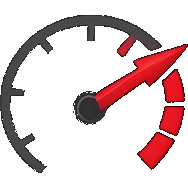
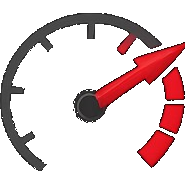
Reframe CTAs as inside access and polish ticker pro view.
- Replace Join the Squad with Get inside access across marketing and auth surfaces.

- Add ticker loading skeleton, intel panel sections, and chart marker legend.

diff --git a/src/components/ticker/TickerIntelPanel.tsx b/src/components/ticker/TickerIntelPanel.tsx
@@ -9,28 +9,36 @@ function formatDate(d: string | number) {
 export function TickerIntelPanel({ intel }: { intel: TickerIntel }) {
   if (intel.assetClass === "crypto") {
     return (
-      <Card className="mt-8">
-        <CardHeader>
-          <h2 className="text-lg font-bold">Crypto · Major exchanges only</h2>
-          <p className="text-sm text-[var(--pf-gray-500)]">
-            Listed on Coinbase/Kraken. No memecoins. Filings and earnings apply to stocks only.
-          </p>
-        </CardHeader>
-        <CardContent className="text-sm text-[var(--pf-gray-600)]">
-          <p>
-            <span className="font-medium">Venue:</span> {intel.finnhubSymbol ?? intel.symbol}
-          </p>
-          <p className="mt-2">
-            Track narrative and squad calls below. For stocks, switch to an equity ticker to see
-            news, earnings, and SEC filings.
-          </p>
-        </CardContent>
-      </Card>
+      <section className="mt-8">
+        <p className="pf-eyebrow">Market intel</p>
+        <h2 className="mt-2 text-lg font-bold tracking-tight">Crypto · exchange-listed only</h2>
+        <Card className="pf-card-elevated mt-4 border-0">
+          <CardHeader>
+            <p className="text-sm text-[var(--pf-gray-500)]">
+              Coinbase / Kraken pairs only. No memecoins. News, earnings, and SEC data are on
+              equity tickers.
+            </p>
+          </CardHeader>
+          <CardContent className="text-sm text-[var(--pf-gray-600)]">
+            <p>
+              <span className="font-medium text-[var(--pf-black)]">Venue:</span>{" "}
+              {intel.finnhubSymbol ?? intel.symbol}
+            </p>
+            <p className="mt-3 leading-relaxed">
+              Track member calls and narrative below. Open a stock ticker for filings, earnings,
+              and headline flow.
+            </p>
+          </CardContent>
+        </Card>
+      </section>
     );
   }
 
   return (
-    <div className="mt-8 grid gap-6 lg:grid-cols-2">
+    <section className="mt-8">
+      <p className="pf-eyebrow">Market intel</p>
+      <h2 className="mt-2 text-lg font-bold tracking-tight">Equity research stack</h2>
+      <div className="mt-4 grid gap-6 lg:grid-cols-2">
       <IntelCard title="News" subtitle="Last 30 days">
         {intel.news.length === 0 ? (
           <Empty>No recent headlines from Finnhub.</Empty>
@@ -140,7 +148,8 @@ export function TickerIntelPanel({ intel }: { intel: TickerIntel }) {
           </dl>
         </IntelCard>
       ) : null}
-    </div>
+      </div>
+    </section>
   );
 }
 
@@ -156,9 +165,9 @@ function IntelCard({
   className?: string;
 }) {
   return (
-    <Card className={className}>
+    <Card className={`pf-card-elevated border-0 ${className ?? ""}`}>
       <CardHeader>
-        <h2 className="text-lg font-bold">{title}</h2>
+        <h3 className="text-base font-bold tracking-tight">{title}</h3>
         <p className="text-sm text-[var(--pf-gray-500)]">{subtitle}</p>
       </CardHeader>
       <CardContent>{children}</CardContent>

diff --git a/src/app/ticker/[symbol]/page.tsx b/src/app/ticker/[symbol]/page.tsx
@@ -9,6 +9,8 @@ import { Button } from "@/components/ui/button";
 import { TickerChartClient } from "@/components/charts/TickerChartClient";
 import { TickerIntelPanel } from "@/components/ticker/TickerIntelPanel";
 import { CallThesisBlock } from "@/components/calls/CallThesisBlock";
+import { TickerChartLegend } from "@/components/ticker/TickerChartLegend";
+import { COPY } from "@/lib/copy";
 import { formatPct, formatPrice } from "@/lib/utils";
 import { getSession } from "@/lib/auth/session";
 import { toHeaderUser } from "@/lib/auth/session-user";
@@ -58,10 +60,14 @@ export default async function TickerPage({
 
         <div className="mt-8 overflow-hidden rounded-[var(--pf-radius-lg)] border border-[var(--pf-border)] bg-[var(--pf-gray-50)]">
           {intel?.candles?.length ? (
-            <TickerChartClient candles={intel.candles} markers={intel.markers ?? []} />
+            <>
+              <TickerChartClient candles={intel.candles} markers={intel.markers ?? []} />
+              <TickerChartLegend callCount={intel.markers?.length ?? 0} />
+            </>
           ) : (
-            <div className="flex h-[380px] items-center justify-center text-sm text-[var(--pf-gray-500)]">
-              Chart unavailable — check Finnhub API key and symbol.
+            <div className="flex h-[380px] flex-col items-center justify-center gap-2 px-6 text-center text-sm text-[var(--pf-gray-500)]">
+              <p className="font-medium text-[var(--pf-gray-600)]">Chart unavailable</p>
+              <p className="text-xs">Check your Finnhub API key or try another symbol.</p>
             </div>
           )}
         </div>
@@ -73,7 +79,7 @@ export default async function TickerPage({
         <SectionHeader
           eyebrow="Community"
           title={`Theses on ${symbol}`}
-          subtitle="All squad calls on this ticker, newest first."
+          subtitle="Member calls on this ticker, newest first."
         />
         <div className="mt-8 space-y-4">
           {(intel?.calls ?? []).length === 0 ? (
@@ -91,7 +97,7 @@ export default async function TickerPage({
                 </Link>
               ) : (
                 <Link href="/join" className="mt-4 inline-block">
-                  <Button variant="outline">Join to submit a call</Button>
+                  <Button variant="outline">{COPY.ctaGetAccess}</Button>
                 </Link>
               )}
             </div>

diff --git a/src/components/ticker/TickerChartLegend.tsx b/src/components/ticker/TickerChartLegend.tsx
@@ -1,0 +1,16 @@
+export function TickerChartLegend({ callCount }: { callCount: number }) {
+  if (callCount === 0) return null;
+
+  return (
+    <div className="flex flex-wrap items-center gap-4 border-t border-[var(--pf-border)] bg-white px-4 py-2.5 text-xs text-[var(--pf-gray-500)]">
+      <span className="font-semibold uppercase tracking-wide text-[var(--pf-gray-400)]">
+        Chart markers
+      </span>
+      <span className="inline-flex items-center gap-1.5">
+        <span className="h-2.5 w-2.5 rounded-full bg-[var(--pf-red)]" />
+        Member call ({callCount} on chart)
+      </span>
+      <span className="text-[var(--pf-gray-400)]">Hover markers for caller labels</span>
+    </div>
+  );
+}

diff --git a/src/components/ticker/TickerPageSkeleton.tsx b/src/components/ticker/TickerPageSkeleton.tsx
@@ -1,0 +1,16 @@
+export function TickerPageSkeleton() {
+  return (
+    <div className="animate-pulse space-y-8">
+      <div className="pf-card-elevated p-6">
+        <div className="h-4 w-24 rounded bg-[var(--pf-gray-200)]" />
+        <div className="mt-4 h-9 w-40 rounded bg-[var(--pf-gray-200)]" />
+        <div className="mt-2 h-4 w-56 rounded bg-[var(--pf-gray-100)]" />
+        <div className="mt-6 h-[380px] rounded-[var(--pf-radius-lg)] bg-[var(--pf-gray-100)]" />
+      </div>
+      <div className="grid gap-6 lg:grid-cols-2">
+        <div className="h-48 rounded-[var(--pf-radius-lg)] bg-[var(--pf-gray-100)]" />
+        <div className="h-48 rounded-[var(--pf-radius-lg)] bg-[var(--pf-gray-100)]" />
+      </div>
+    </div>
+  );
+}

diff --git a/src/app/ticker/[symbol]/loading.tsx b/src/app/ticker/[symbol]/loading.tsx
@@ -1,0 +1,15 @@
+import { SiteHeader } from "@/components/brand/SiteHeader";
+import { TickerPageSkeleton } from "@/components/ticker/TickerPageSkeleton";
+
+export default function TickerLoading() {
+  return (
+    <>
+      <SiteHeader />
+      <div className="pf-app-bg">
+        <main className="mx-auto max-w-6xl px-4 py-8">
+          <TickerPageSkeleton />
+        </main>
+      </div>
+    </>
+  );
+}

diff --git a/src/app/join/page.tsx b/src/app/join/page.tsx
@@ -8,6 +8,7 @@ import { Logo } from "@/components/brand/Logo";
 import { Button } from "@/components/ui/button";
 import { Input } from "@/components/ui/input";
 import { Card, CardContent, CardHeader } from "@/components/ui/card";
+import { COPY } from "@/lib/copy";
 
 type Step = "plan" | "account" | "done";
 
@@ -62,10 +63,10 @@ export default function JoinPage() {
       </div>
       <div className="pf-hero-mesh border-b border-[var(--pf-border)] py-10 text-center">
         <p className="pf-eyebrow">Membership</p>
-        <h1 className="pf-display mt-3 text-2xl sm:text-3xl">Join the PortFuel squad</h1>
+        <h1 className="pf-display mt-3 text-2xl sm:text-3xl">Get inside access to PortFuel</h1>
         <p className="pf-lead mx-auto mt-3 max-w-md text-sm">
-          Choose a permanent username and password. After membership is active, you&apos;ll set up
-          2FA before accessing the dashboard.
+          Member-only theses, live marks, and the full feed — not just public winners. Choose a
+          permanent username; after activation, complete 2FA to enter.
         </p>
       </div>
       <div className="mx-auto max-w-3xl px-4 py-10">
@@ -80,9 +81,10 @@ export default function JoinPage() {
           <Card className="pf-card-elevated border-0 shadow-[var(--pf-shadow-lg)]">
             <CardHeader>
               <p className="pf-eyebrow">Membership</p>
-              <h1 className="mt-2 text-2xl font-bold tracking-tight">Join the Squad</h1>
+              <h1 className="mt-2 text-2xl font-bold tracking-tight">Member access</h1>
               <p className="mt-2 text-[var(--pf-gray-600)]">
-                Premium stock call intelligence. Username is permanent — choose carefully.
+                Unlock the full thesis feed and live intel. Username is permanent — choose
+                carefully.
               </p>
             </CardHeader>
             <CardContent className="space-y-6">
@@ -165,7 +167,7 @@ export default function JoinPage() {
                 <Input
                   value={displayName}
                   onChange={(e) => setDisplayName(e.target.value.slice(0, 32))}
-                  placeholder="Your squad name"
+                  placeholder="How you appear on calls"
                 />
               </div>
               {error ? (

diff --git a/src/components/marketing/MarketingCta.tsx b/src/components/marketing/MarketingCta.tsx
@@ -1,16 +1,17 @@
 import Link from "next/link";
 import { Button } from "@/components/ui/button";
+import { COPY } from "@/lib/copy";
 
 export function MarketingCta() {
   return (
     <section className="pf-cta-band">
       <div className="mx-auto max-w-6xl px-4 py-16 text-center">
         <h2 className="text-2xl font-bold tracking-tight text-white sm:text-3xl">
-          Ready to fuel the board?
+          Ready for inside access?
         </h2>
         <p className="mx-auto mt-3 max-w-lg text-sm leading-relaxed text-white/80">
-          Join during beta for full access. Stripe membership billing ships next — early squad
-          members lock in first.
+          Get the full thesis feed, live marks, and member-only intel. Stripe billing ships next —
+          early members lock in first.
         </p>
         <div className="mt-8 flex flex-wrap items-center justify-center gap-3">
           <Link href="/join">
@@ -18,7 +19,7 @@ export function MarketingCta() {
               size="lg"
               className="bg-white text-[var(--pf-black)] hover:bg-white/90"
             >
-              Join the Squad
+              {COPY.ctaGetAccess}
             </Button>
           </Link>
           <Link href="/login">

diff --git a/src/components/marketing/MembersFeedGate.tsx b/src/components/marketing/MembersFeedGate.tsx
@@ -1,6 +1,7 @@
 import Link from "next/link";
 import { Radio, Lock } from "lucide-react";
 import { Button } from "@/components/ui/button";
+import { COPY } from "@/lib/copy";
 
 export function MembersFeedGate() {
   return (
@@ -9,19 +10,19 @@ export function MembersFeedGate() {
         <div className="grid items-center gap-10 lg:grid-cols-2">
           <div>
             <p className="text-xs font-semibold uppercase tracking-widest text-[var(--pf-red)]">
-              Members only
+              {COPY.membersOnly}
             </p>
             <h2 className="mt-3 text-2xl font-bold tracking-tight sm:text-3xl">
-              Live call feed stays inside the squad
+              The live intel stays behind the member wall
             </h2>
             <p className="mt-4 text-sm leading-relaxed text-white/70">
               Fresh theses, entry levels, and the full dashboard are for paid members. The homepage
               only showcases calls that have already hit performance thresholds — never the live
-              board.
+              board or full write-ups.
             </p>
             <div className="mt-8 flex flex-wrap gap-3">
               <Link href="/join">
-                <Button size="lg">Join the Squad</Button>
+                <Button size="lg">{COPY.ctaGetAccess}</Button>
               </Link>
               <Link href="/login">
                 <Button size="lg" variant="outline" className="border-white/30 text-white hover:bg-white/10 hover:text-white">

diff --git a/src/components/calls/PublicHighlightCard.tsx b/src/components/calls/PublicHighlightCard.tsx
@@ -5,6 +5,7 @@ import { Button } from "@/components/ui/button";
 import { Card, CardContent } from "@/components/ui/card";
 import { cn, formatPct, timeAgo } from "@/lib/utils";
 import type { TeaserCallRow } from "@/lib/db/supabase";
+import { COPY } from "@/lib/copy";
 
 /** Public landing card — shows performance, hides full thesis. */
 export function PublicHighlightCard({ call }: { call: TeaserCallRow }) {
@@ -38,14 +39,14 @@ export function PublicHighlightCard({ call }: { call: TeaserCallRow }) {
 
         <div className="relative mt-4 overflow-hidden rounded-[var(--pf-radius)] border border-[var(--pf-border)] bg-[var(--pf-gray-50)] px-4 py-6">
           <p className="select-none blur-sm">
-            Thesis and live levels are available to members after sign-in. Join to read the full
-            call and track performance in real time.
+            Full thesis and live levels are inside access for members. Sign up to read the
+            complete call and track performance in real time.
           </p>
           <div className="absolute inset-0 flex flex-col items-center justify-center gap-2 bg-white/70 backdrop-blur-[2px]">
             <Lock className="h-5 w-5 text-[var(--pf-red)]" strokeWidth={2} />
             <p className="text-xs font-semibold text-[var(--pf-gray-700)]">Members-only thesis</p>
             <Link href="/join">
-              <Button size="sm">Join to unlock</Button>
+              <Button size="sm">{COPY.ctaGetAccess}</Button>
             </Link>
           </div>
         </div>

diff --git a/src/lib/copy.ts b/src/lib/copy.ts
@@ -1,0 +1,7 @@
+/** Shared marketing / member-access language (inside intel, not “team” framing). */
+export const COPY = {
+  ctaGetAccess: "Get inside access",
+  ctaSignIn: "Sign in",
+  membersOnly: "Members only",
+  memberFeed: "Member feed",
+} as const;

diff --git a/src/app/page.tsx b/src/app/page.tsx
@@ -9,6 +9,7 @@ import { MembersFeedGate } from "@/components/marketing/MembersFeedGate";
 import { SectionHeader } from "@/components/marketing/SectionHeader";
 import { SiteFooter } from "@/components/marketing/SiteFooter";
 import { Button } from "@/components/ui/button";
+import { COPY } from "@/lib/copy";
 import {
   fetchPublicLandingTeasers,
   PUBLIC_TEASER_THRESHOLDS,
@@ -55,7 +56,7 @@ export default async function LandingPage() {
               </p>
               <div className="mt-8 flex flex-wrap items-center justify-center gap-3 lg:justify-start">
                 <Link href="/join">
-                  <Button size="lg">Join the Squad</Button>
+                  <Button size="lg">{COPY.ctaGetAccess}</Button>
                 </Link>
                 <Link href="/login">
                   <Button variant="secondary" size="lg">
@@ -159,7 +160,7 @@ function TeaserSection({
             <div className="pf-empty">
               <p className="font-medium text-[var(--pf-gray-700)]">{emptyMessage}</p>
               <Link href="/join" className="mt-4 inline-block">
-                <Button variant="outline">Join for the live feed</Button>
+                <Button variant="outline">{COPY.ctaGetAccess}</Button>
               </Link>
             </div>
           ) : (

diff --git a/src/components/marketing/HowItWorks.tsx b/src/components/marketing/HowItWorks.tsx
@@ -3,8 +3,8 @@ import { LineChart, ShieldCheck, Users } from "lucide-react";
 const steps = [
   {
     icon: Users,
-    title: "Create your account",
-    text: "Choose a permanent username and password. After membership is active, set up two-factor authentication.",
+    title: "Request inside access",
+    text: "Create your member account with a permanent username. After activation, secure it with two-factor authentication.",
   },
   {
     icon: LineChart,